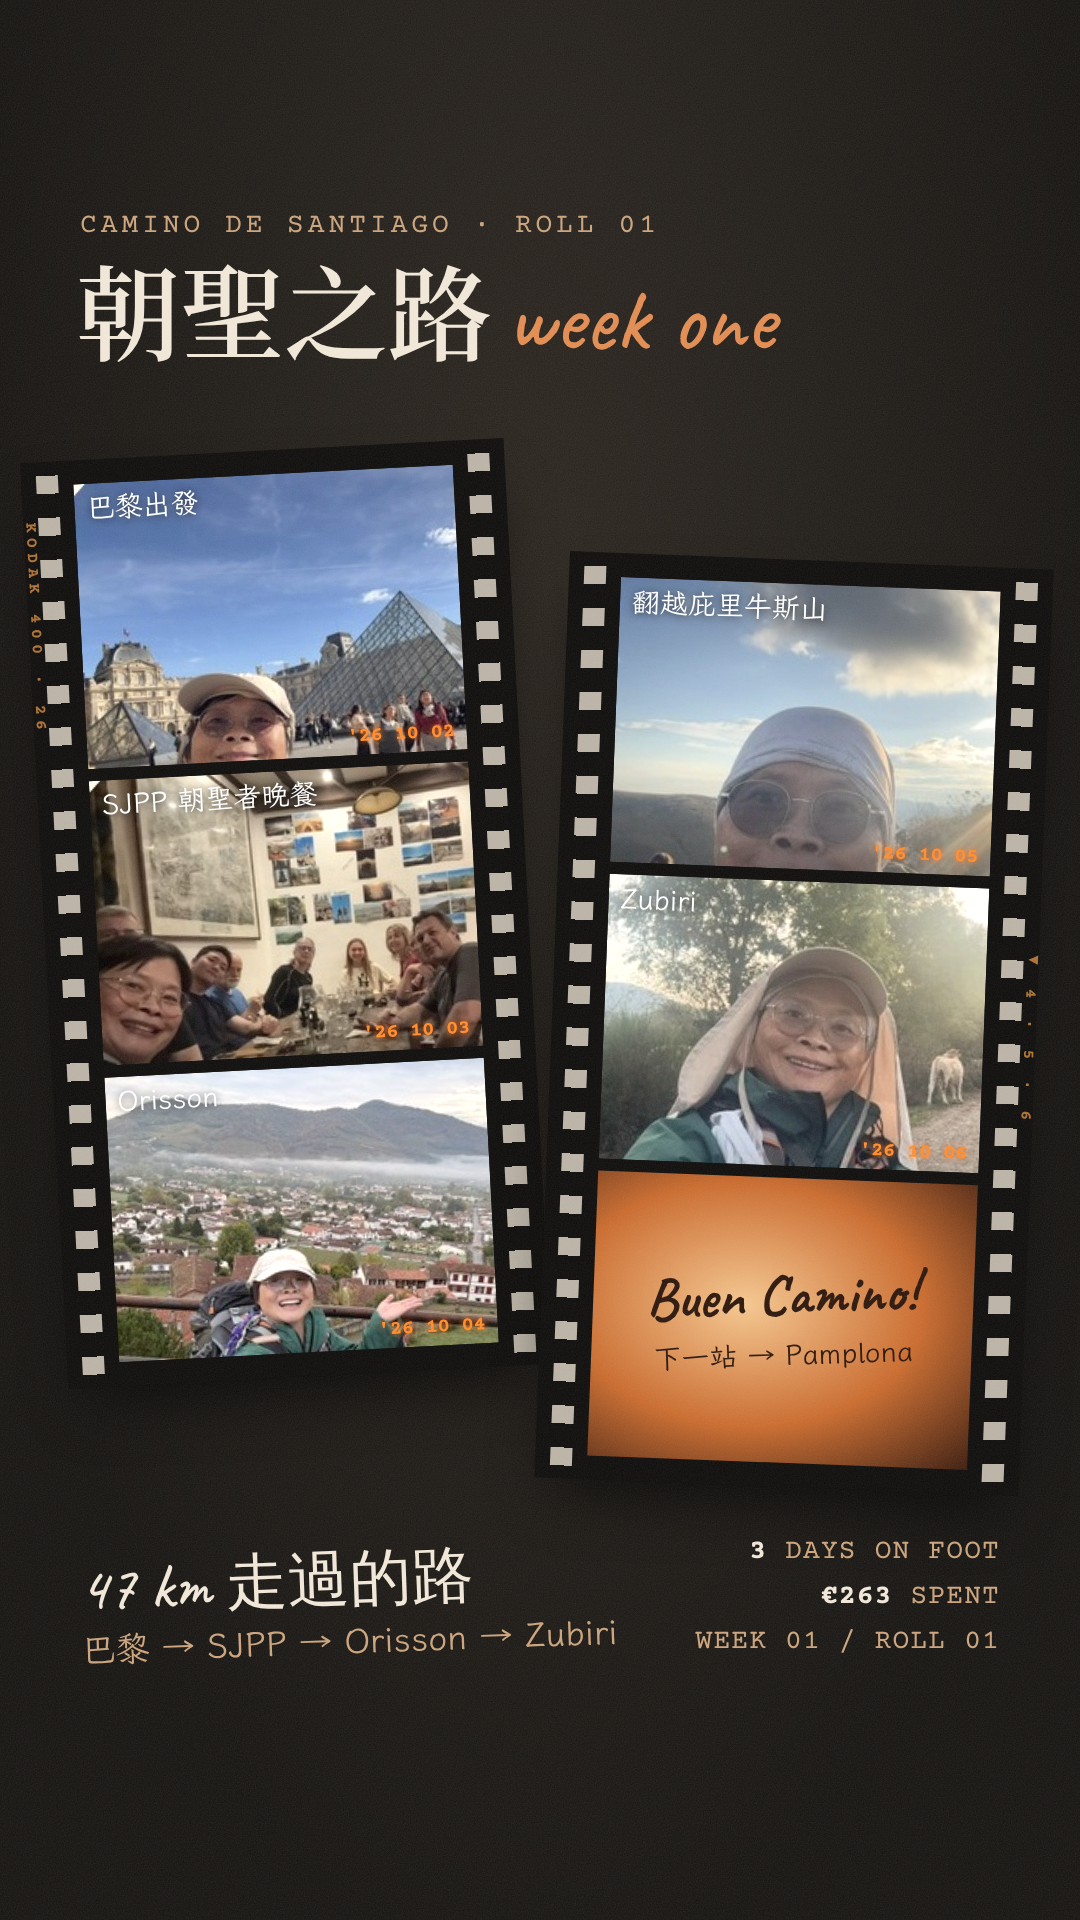
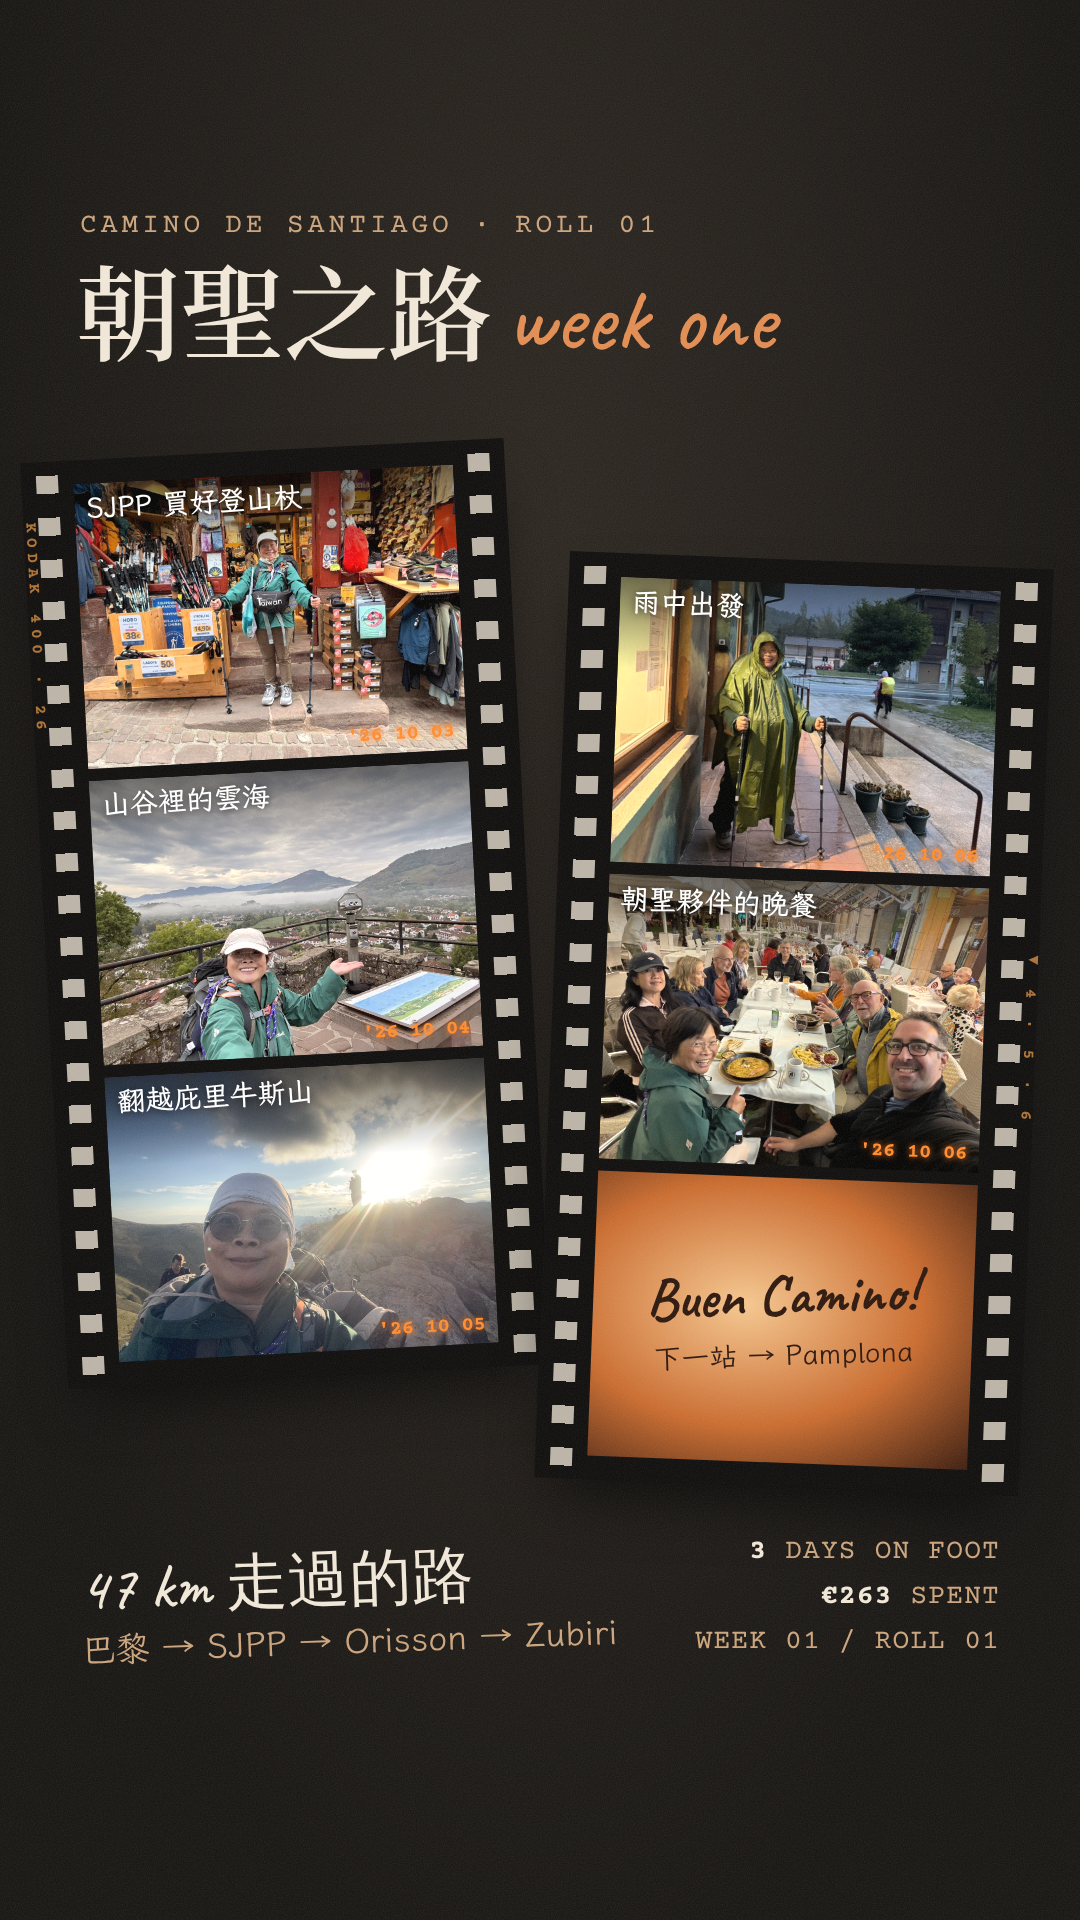
Use original photos in film layout
Swap in the five full-resolution photos, update captions, and add a
top gradient so captions read on busy frames.

Claude-Session: https://claude.ai/code/session_016GtYmnEBYrU1xZ2scf5AqF

Changed region(s): [[0.0611, 0.2188, 0.4583, 0.7188], [0.55, 0.2812, 0.9472, 0.625]]

diff --git a/ig-story/b-film.html b/ig-story/b-film.html
@@ -23,8 +23,11 @@
     writing-mode:vertical-rl;letter-spacing:.35em;opacity:.75}
   .fr{position:relative;height:285px;margin:12px 0;overflow:hidden}
   .fr img{width:100%;height:100%;object-fit:cover;display:block;filter:contrast(1.06) saturate(1.05) sepia(.08)}
+  .fr::after{content:"";position:absolute;inset:0 0 auto 0;height:90px;background:linear-gradient(rgba(0,0,0,.6),transparent);pointer-events:none}
+
   .fr .d{position:absolute;right:12px;bottom:8px;font:700 20px/1 'Courier Prime',monospace;color:#ff8a2a;text-shadow:0 0 6px rgba(255,120,30,.9)}
-  .fr .l{position:absolute;left:12px;top:10px;font:400 28px/1 'LXGW WenKai TC',serif;color:#fff;text-shadow:0 1px 8px rgba(0,0,0,.75)}
+  .fr .l{position:absolute;z-index:1;left:12px;top:10px;font:700 28px/1 'LXGW WenKai TC',serif;color:#fff;text-shadow:0 1px 8px rgba(0,0,0,.75)}
+  .blank::after{display:none}
   .blank{background:radial-gradient(ellipse at 40% 45%,#f4c58d,#c8692c 55%,#3a1a0c);display:grid;place-items:center;text-align:center}
   .blank div{font:700 58px/1 'Caveat',cursive;color:#2a140a;transform:rotate(-4deg)}
   .blank small{display:block;font:400 28px/1.5 'LXGW WenKai TC',serif;margin-top:10px}
@@ -39,15 +42,15 @@
   <div class="abs title">朝聖之路<em>week one</em></div>
   <div class="abs strip s1">
     <div class="edge" style="left:-1px;top:60px">KODAK 400 · 26</div>
-    <div class="fr"><img src="photos/1002-paris.jpg" style="object-position:0% 50%"><span class="l">巴黎出發</span><span class="d">'26 10 02</span></div>
-    <div class="fr"><img src="photos/1003-sjpp.jpg" style="object-position:0% 50%"><span class="l">SJPP 朝聖者晚餐</span><span class="d">'26 10 03</span></div>
-    <div class="fr"><img src="photos/1004-orisson.jpg" style="object-position:5% 50%"><span class="l">Orisson</span><span class="d">'26 10 04</span></div>
+    <div class="fr"><img src="photos/1003-sjpp-shop.jpg" style="object-position:50% 30%"><span class="l">SJPP 買好登山杖</span><span class="d">'26 10 03</span></div>
+    <div class="fr"><img src="photos/1004-view.jpg" style="object-position:50% 50%"><span class="l">山谷裡的雲海</span><span class="d">'26 10 04</span></div>
+    <div class="fr"><img src="photos/1005-pyrenees-hd.jpg" style="object-position:50% 50%"><span class="l">翻越庇里牛斯山</span><span class="d">'26 10 05</span></div>
   </div>
   <div class="abs strip s2">
     <div class="edge" style="right:-1px;top:380px">◀ 4 · 5 · 6</div>
-    <div class="fr"><img src="photos/1005-pyrenees.jpg" style="object-position:20% 50%"><span class="l">翻越庇里牛斯山</span><span class="d">'26 10 05</span></div>
-    <div class="fr"><img src="photos/1006-zubiri.jpg" style="object-position:4% 50%"><span class="l">Zubiri</span><span class="d">'26 10 06</span></div>
-    <div class="fr blank"><div>Buen Camino!<small>下一站 → Pamplona</small></div></div>
+    <div class="fr"><img src="photos/1006-rain.jpg" style="object-position:50% 72%"><span class="l">雨中出發</span><span class="d">'26 10 06</span></div>
+    <div class="fr"><img src="photos/dinner.jpg" style="object-position:50% 50%"><span class="l">朝聖夥伴的晚餐</span><span class="d">'26 10 06</span></div>
+    <div class="fr blank nogr"><div>Buen Camino!<small>下一站 → Pamplona</small></div></div>
   </div>
   <div class="abs foot">
     <div class="note">47 km 走過的路<small>巴黎 → SJPP → Orisson → Zubiri</small></div>
